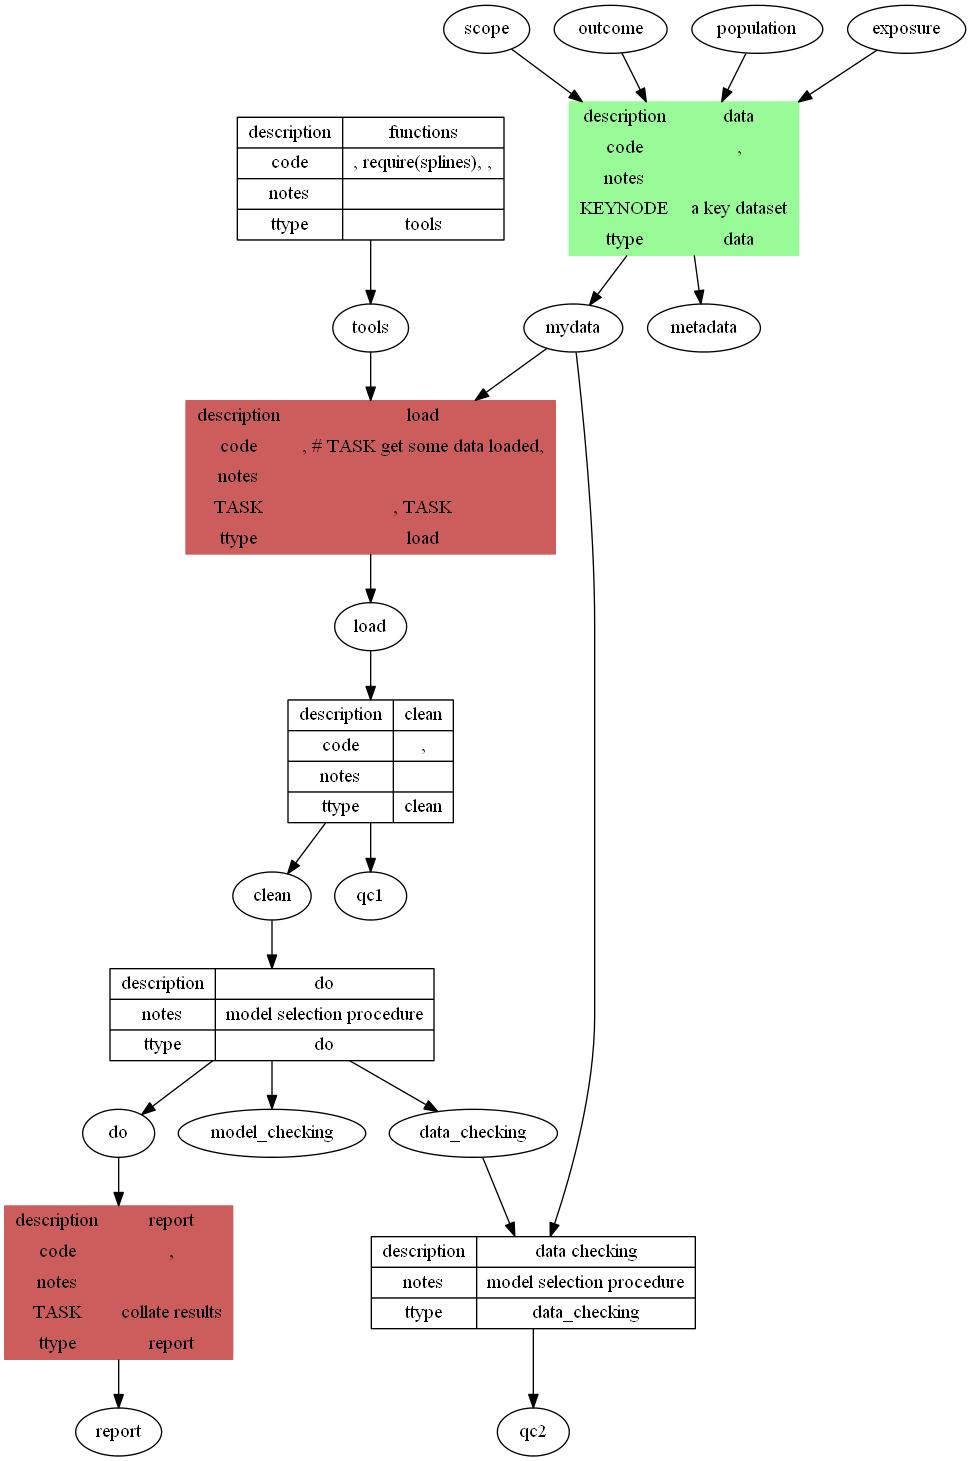
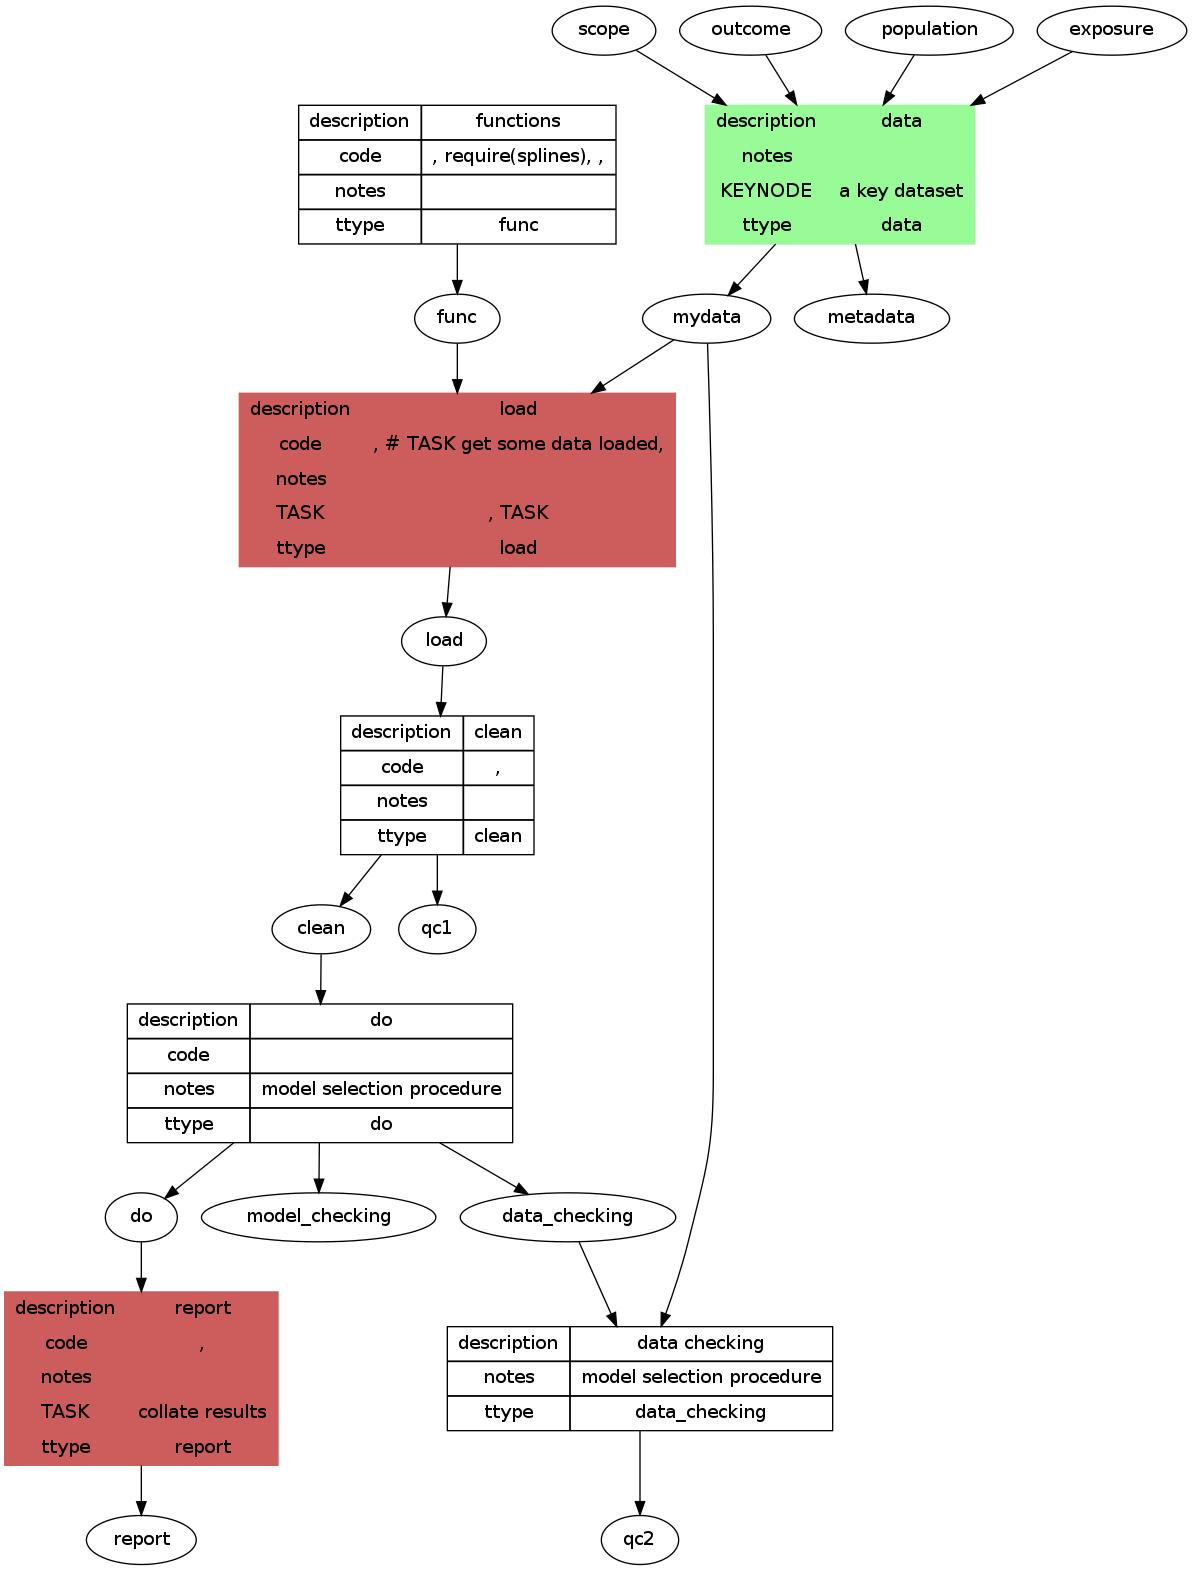
Revision to colour example

Changed region(s): [[0.0, 0.0, 1.0, 1.0]]

diff --git a/src/transformations_test/reports/transformations_test_transformations.html b/src/transformations_test/reports/transformations_test_transformations.html
@@ -15,12 +15,12 @@ return false;
 //-->
 </SCRIPT>
 <map id="transformations" name="transformations">
-<area shape="rect" id="node1" onClick=popup("transformations_test_transformations_files/t1.txt") title="{{ {description|code|notes|ttype} | {functions|, require(splines), , ||tools} }}" alt="" coords="237,117,504,241"/>
-<area shape="rect" id="node17" onClick=popup("transformations_test_transformations_files/t3.txt") title="{{ {description|code|notes|TASK|ttype} | {load|, # TASK get some data loaded, ||, TASK|load} }}" alt="" coords="186,400,555,555"/>
-<area shape="rect" id="node4" onClick=popup("transformations_test_transformations_files/t2.txt") title="{{ {description|code|notes|KEYNODE|ttype} | {data|, ||a key dataset|data} }}" alt="" coords="569,101,799,256"/>
-<area shape="rect" id="node36" onClick=popup("transformations_test_transformations_files/t6.txt") title="{{ {description|notes|ttype} | {data checking|model selection procedure|data_checking} }}" alt="" coords="371,1236,695,1329"/>
-<area shape="rect" id="node22" onClick=popup("transformations_test_transformations_files/t4.txt") title="{{ {description|code|notes|ttype} | {clean|, ||clean} }}" alt="" coords="288,699,453,823"/>
-<area shape="rect" id="node28" onClick=popup("transformations_test_transformations_files/t5.txt") title="{{ {description|notes|ttype} | {do|model selection procedure|do} }}" alt="" coords="110,968,433,1061"/>
-<area shape="rect" id="node41" onClick=popup("transformations_test_transformations_files/t7.txt") title="{{ {description|code|notes|TASK|ttype} | {report|, ||collate results|report} }}" alt="" coords="5,1205,232,1360"/>
+<area shape="rect" id="node1" onClick=popup("transformations_test_transformations_files/t1.txt") title="{{ {description|code|notes|ttype} | {functions|, require(splines), , ||func} }}" alt="" coords="299,105,616,245"/>
+<area shape="rect" id="node17" onClick=popup("transformations_test_transformations_files/t3.txt") title="{{ {description|code|notes|TASK|ttype} | {load|, # TASK get some data loaded, ||, TASK|load} }}" alt="" coords="240,393,675,567"/>
+<area shape="rect" id="node4" onClick=popup("transformations_test_transformations_files/t2.txt") title="{{ {description|notes|KEYNODE|ttype} | {data||a key dataset|data} }}" alt="" coords="705,105,975,245"/>
+<area shape="rect" id="node36" onClick=popup("transformations_test_transformations_files/t6.txt") title="{{ {description|notes|ttype} | {data checking|model selection procedure|data_checking} }}" alt="" coords="448,1326,832,1431"/>
+<area shape="rect" id="node22" onClick=popup("transformations_test_transformations_files/t4.txt") title="{{ {description|code|notes|ttype} | {clean|, ||clean} }}" alt="" coords="341,715,533,855"/>
+<area shape="rect" id="node28" onClick=popup("transformations_test_transformations_files/t5.txt") title="{{ {description|code|notes|ttype} | {do||model selection procedure|do} }}" alt="" coords="128,1003,512,1143"/>
+<area shape="rect" id="node41" onClick=popup("transformations_test_transformations_files/t7.txt") title="{{ {description|code|notes|TASK|ttype} | {report|, ||collate results|report} }}" alt="" coords="5,1291,277,1466"/>
 </map>
 <IMG SRC="transformations_test_transformations_files/transformations_test_transformations.jpg" USEMAP="#transformations" />

diff --git a/src/transformations_test/reports/transformations_test_transformations_files/transformations_test_transformations_temp.html b/src/transformations_test/reports/transformations_test_transformations_files/transformations_test_transformations_temp.html
@@ -1,9 +1,9 @@
 <map id="transformations" name="transformations">
-<area shape="rect" id="node1" href="STARTt1END" title="{{ {description|code|notes|ttype} | {functions|, require(splines), , ||tools} }}" alt="" coords="237,117,504,241"/>
-<area shape="rect" id="node17" href="STARTt3END" title="{{ {description|code|notes|TASK|ttype} | {load|, # TASK get some data loaded, ||, TASK|load} }}" alt="" coords="186,400,555,555"/>
-<area shape="rect" id="node4" href="STARTt2END" title="{{ {description|code|notes|KEYNODE|ttype} | {data|, ||a key dataset|data} }}" alt="" coords="569,101,799,256"/>
-<area shape="rect" id="node36" href="STARTt6END" title="{{ {description|notes|ttype} | {data checking|model selection procedure|data_checking} }}" alt="" coords="371,1236,695,1329"/>
-<area shape="rect" id="node22" href="STARTt4END" title="{{ {description|code|notes|ttype} | {clean|, ||clean} }}" alt="" coords="288,699,453,823"/>
-<area shape="rect" id="node28" href="STARTt5END" title="{{ {description|notes|ttype} | {do|model selection procedure|do} }}" alt="" coords="110,968,433,1061"/>
-<area shape="rect" id="node41" href="STARTt7END" title="{{ {description|code|notes|TASK|ttype} | {report|, ||collate results|report} }}" alt="" coords="5,1205,232,1360"/>
+<area shape="rect" id="node1" href="STARTt1END" title="{{ {description|code|notes|ttype} | {functions|, require(splines), , ||func} }}" alt="" coords="299,105,616,245"/>
+<area shape="rect" id="node17" href="STARTt3END" title="{{ {description|code|notes|TASK|ttype} | {load|, # TASK get some data loaded, ||, TASK|load} }}" alt="" coords="240,393,675,567"/>
+<area shape="rect" id="node4" href="STARTt2END" title="{{ {description|notes|KEYNODE|ttype} | {data||a key dataset|data} }}" alt="" coords="705,105,975,245"/>
+<area shape="rect" id="node36" href="STARTt6END" title="{{ {description|notes|ttype} | {data checking|model selection procedure|data_checking} }}" alt="" coords="448,1326,832,1431"/>
+<area shape="rect" id="node22" href="STARTt4END" title="{{ {description|code|notes|ttype} | {clean|, ||clean} }}" alt="" coords="341,715,533,855"/>
+<area shape="rect" id="node28" href="STARTt5END" title="{{ {description|code|notes|ttype} | {do||model selection procedure|do} }}" alt="" coords="128,1003,512,1143"/>
+<area shape="rect" id="node41" href="STARTt7END" title="{{ {description|code|notes|TASK|ttype} | {report|, ||collate results|report} }}" alt="" coords="5,1291,277,1466"/>
 </map>
